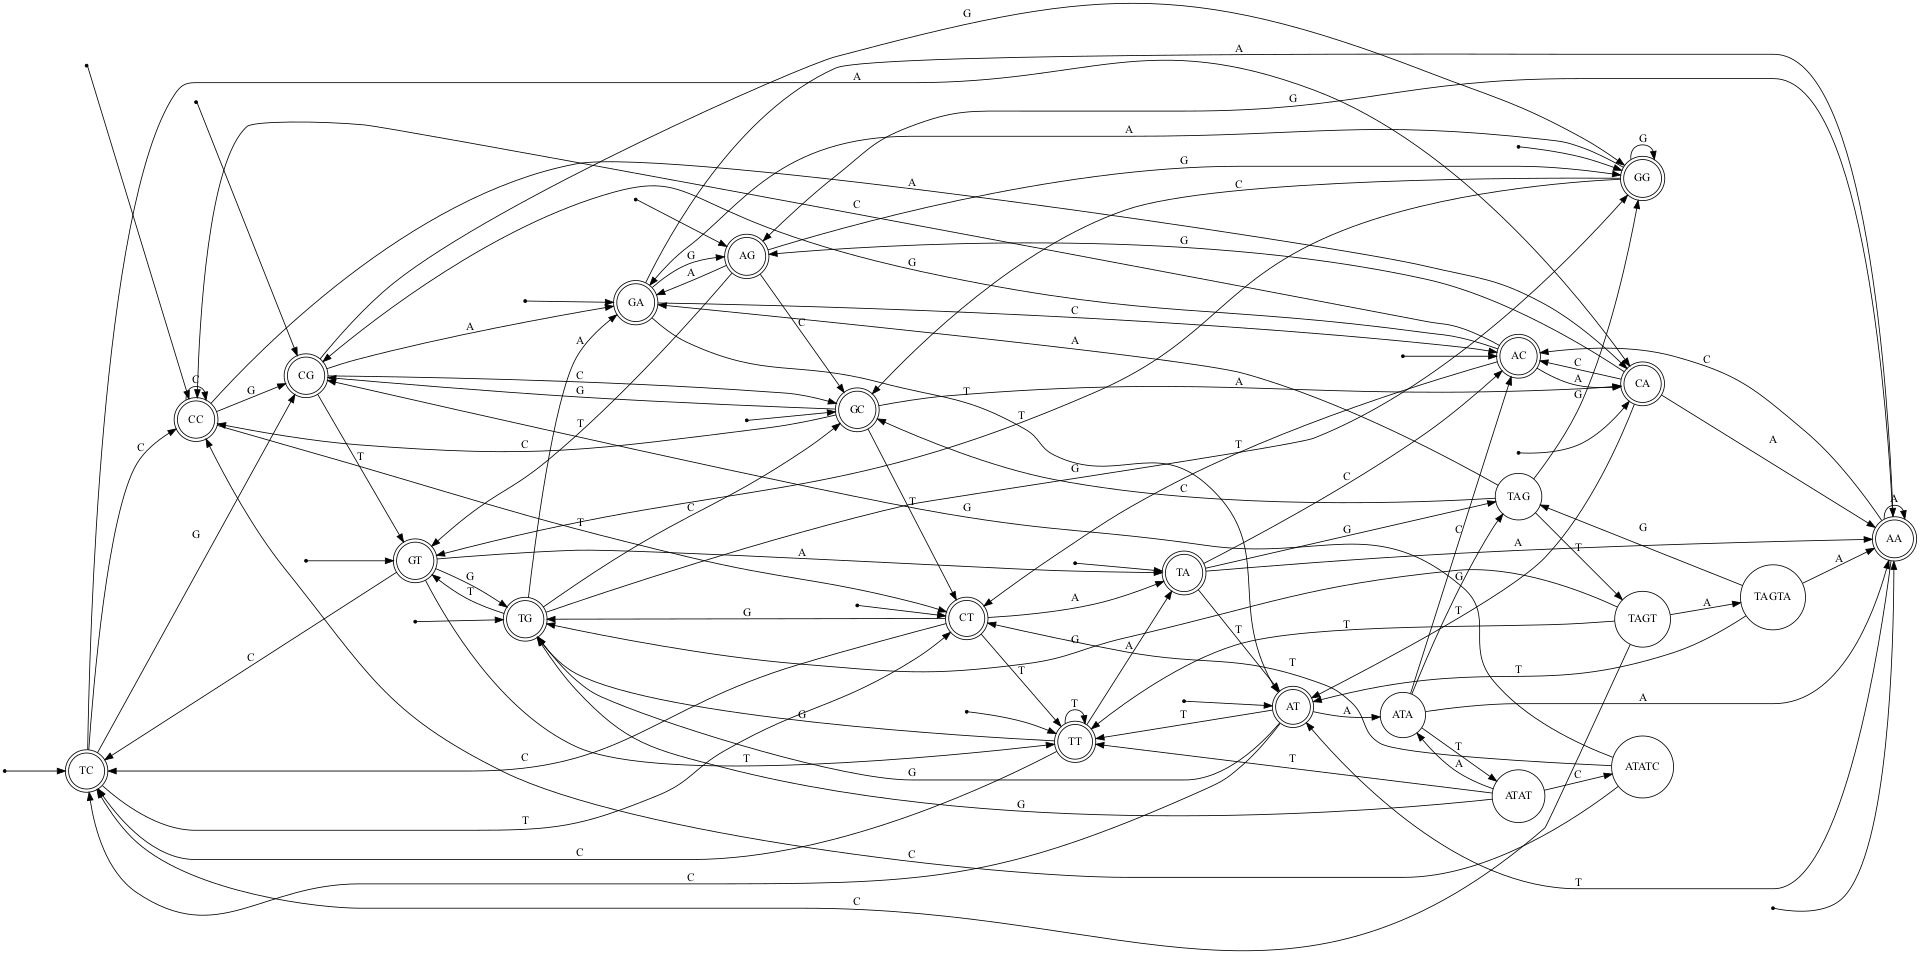
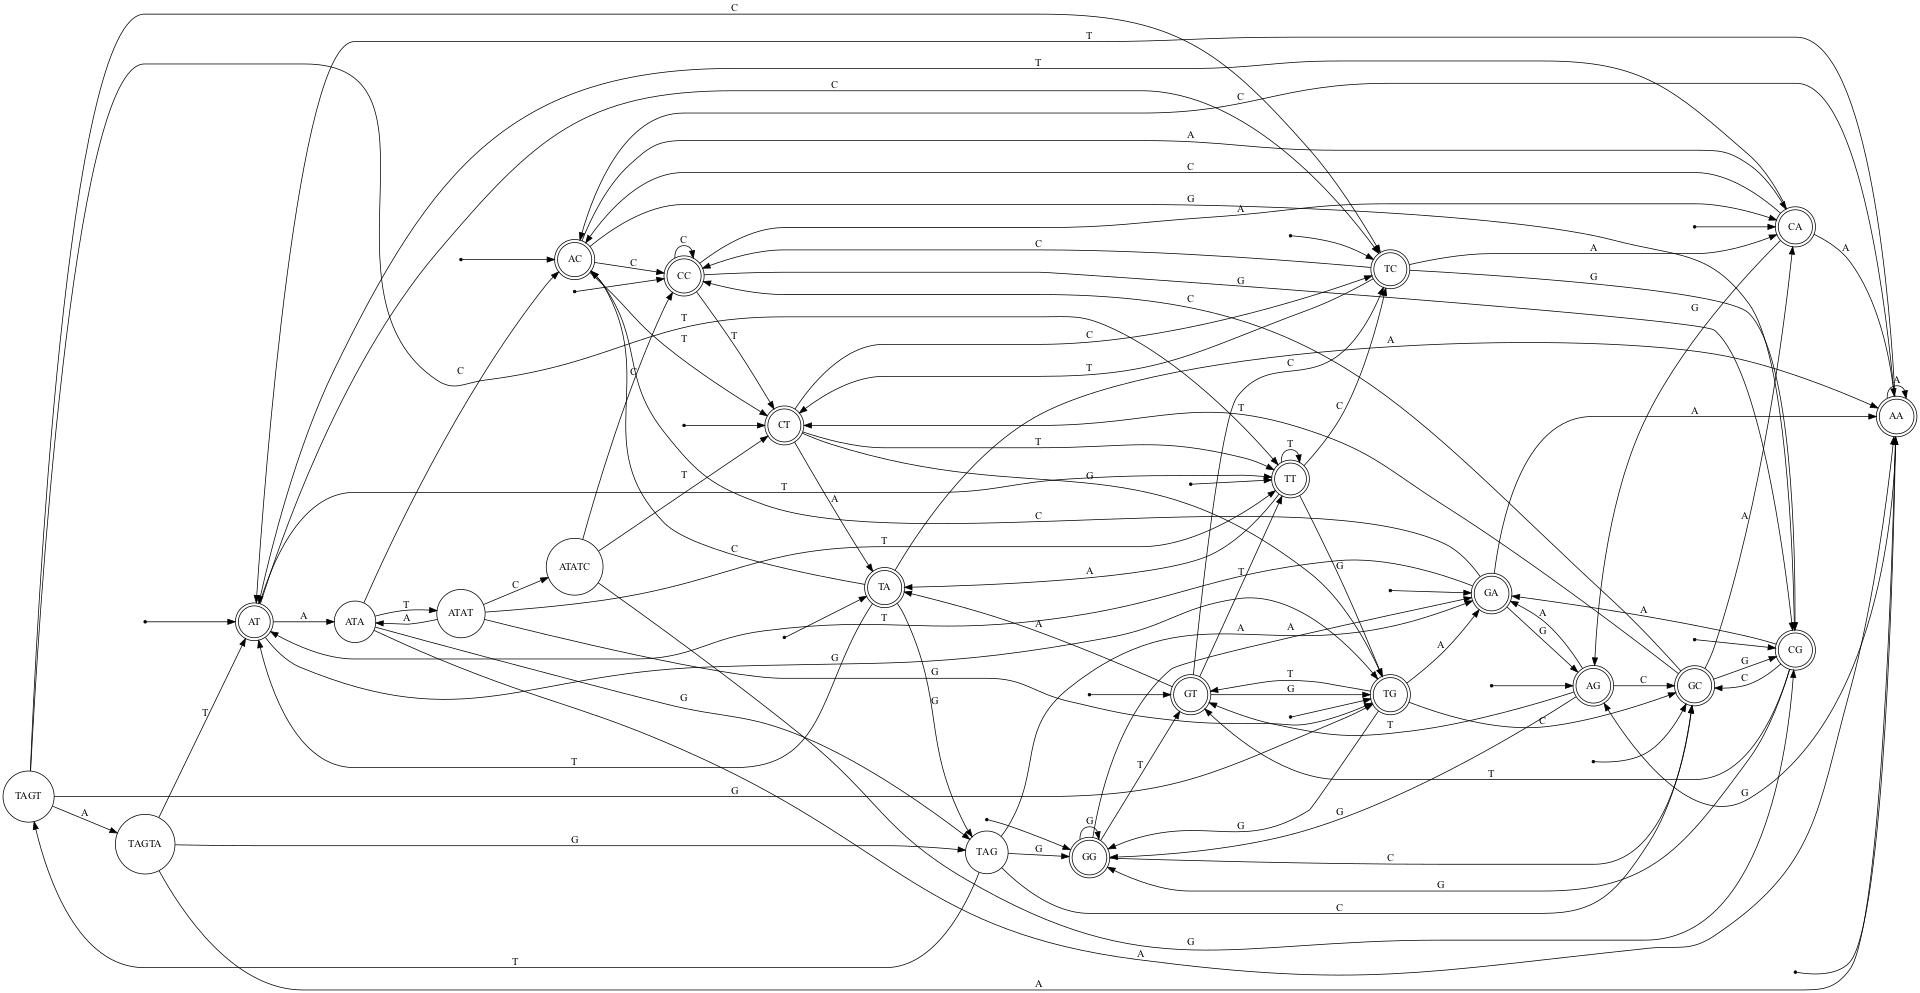
fix implementation according to Ilan

diff --git a/algorithm/fsm.py b/algorithm/fsm.py
@@ -17,7 +17,7 @@ def kmp_based_fsm(unwanted_patterns, sigma):
 
     f = {}
     g = {}
-    states = list()
+    states = set()
     epsilon = ''
 
     # Prefix elongation and invalid transitions
@@ -28,7 +28,7 @@ def kmp_based_fsm(unwanted_patterns, sigma):
 
     # Computing state space V and the functions f and g
     state_queue = deque()
-    states.append(epsilon)
+    states.add(epsilon)
     for s in sigma:
         if (epsilon, s) not in f:
             f[(epsilon, s)] = epsilon
@@ -39,7 +39,7 @@ def kmp_based_fsm(unwanted_patterns, sigma):
     # Efficient BFS State Processing in FSM Pattern Matching
     while state_queue:
         v = state_queue.popleft()
-        states.append(v)
+        states.add(v)
 
         for s in sigma:
             if f[g[v], s] is None:
@@ -50,7 +50,24 @@ def kmp_based_fsm(unwanted_patterns, sigma):
                 g[v + s] = f[(g[v], s)]
                 state_queue.append(v + s)
 
-    return epsilon, states, f, g
+    # Remove epsilon and single-character states
+    states.discard(epsilon)
+    states.difference_update(sigma)
+
+    # Generate all bigrams from the alphabet and update states
+    pair_states = [x + y for x in sigma for y in sigma]
+    states.update(pair_states)
+
+    # Clean up invalid transitions in f
+    f = {(v, s): val for (v, s), val in f.items() if v and v not in sigma and val != epsilon and val not in sigma}
+
+    # Calculate bigrams states
+    for v in states:
+        for s in sigma:
+            if (v, s) not in f:
+                f[(v, s)] = v[-1] + s
+
+    return pair_states, states, f, g
 
 
 def pairwise_kmp_fsm(unwanted_patterns, sigma):
@@ -125,4 +142,4 @@ class FSM:
         self.sigma = alphabet
         self.unwanted_patterns = unwanted_patterns
 
-        self.pair_states, self.V, self.f = pairwise_kmp_fsm(self.unwanted_patterns, self.sigma)
+        self.initial_states, self.V, self.f, self.g = kmp_based_fsm(self.unwanted_patterns, self.sigma)

diff --git a/algorithm/eliminate_sequence.py b/algorithm/eliminate_sequence.py
@@ -30,12 +30,12 @@ class EliminationController:
         cost_function = elimination_utils.cost_function(target_sequence, coding_positions, CostData.codon_usage, CostData.alpha, CostData.beta, CostData.w)
         fsm = FSM(unwanted_patterns, elimination_utils.alphabet)
 
-        visualize_fsm_graph(fsm.V, fsm.f, fsm.pair_states)
+        visualize_fsm_graph(fsm.V, fsm.f, fsm.initial_states)
         visualize_fsm_table(fsm.V, fsm.f)
 
         # Dynamic programming table A, initialized with infinity
         A = defaultdict(lambda: float('inf'))
-        for init_state in fsm.pair_states:
+        for init_state in fsm.initial_states:
             A[(0, init_state)] = 0
 
         # A* table for backtracking (stores the previous state and transition symbol)

diff --git a/test/test_fsm.py b/test/test_fsm.py
@@ -120,7 +120,7 @@ class TestCalculateFSM(unittest.TestCase):
                                 ('TAGTA', 'G'): 'TAG',
                                 ('TAGTA', 'T'): 'AT'}
 
-        self.assertTrue(len(fsm.pair_states) == 16)
+        self.assertTrue(len(fsm.initial_states) == 16)
         self.assertTrue(len(fsm.V) == 22)
         self.assertTrue(len(fsm.f) == len(fsm.V) * len(fsm.sigma))
 
